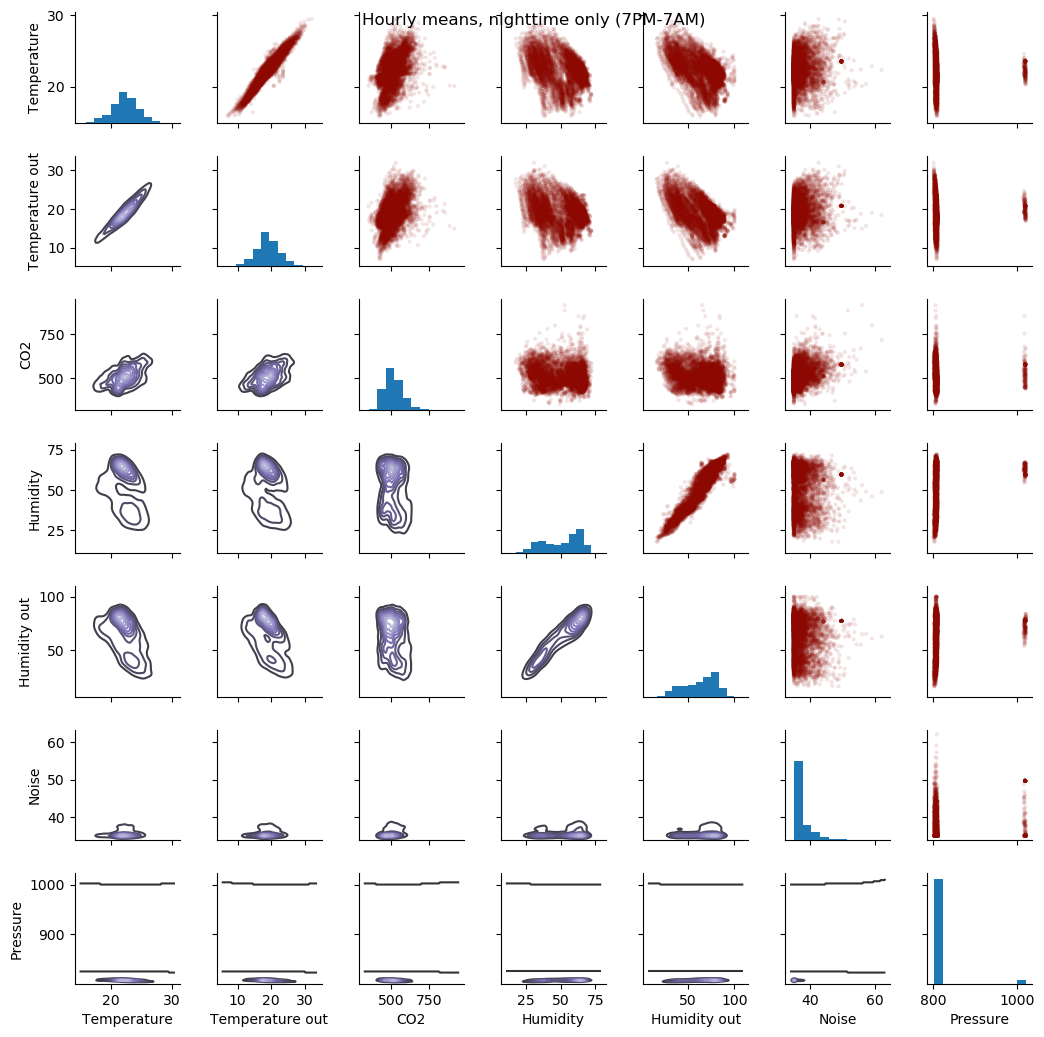
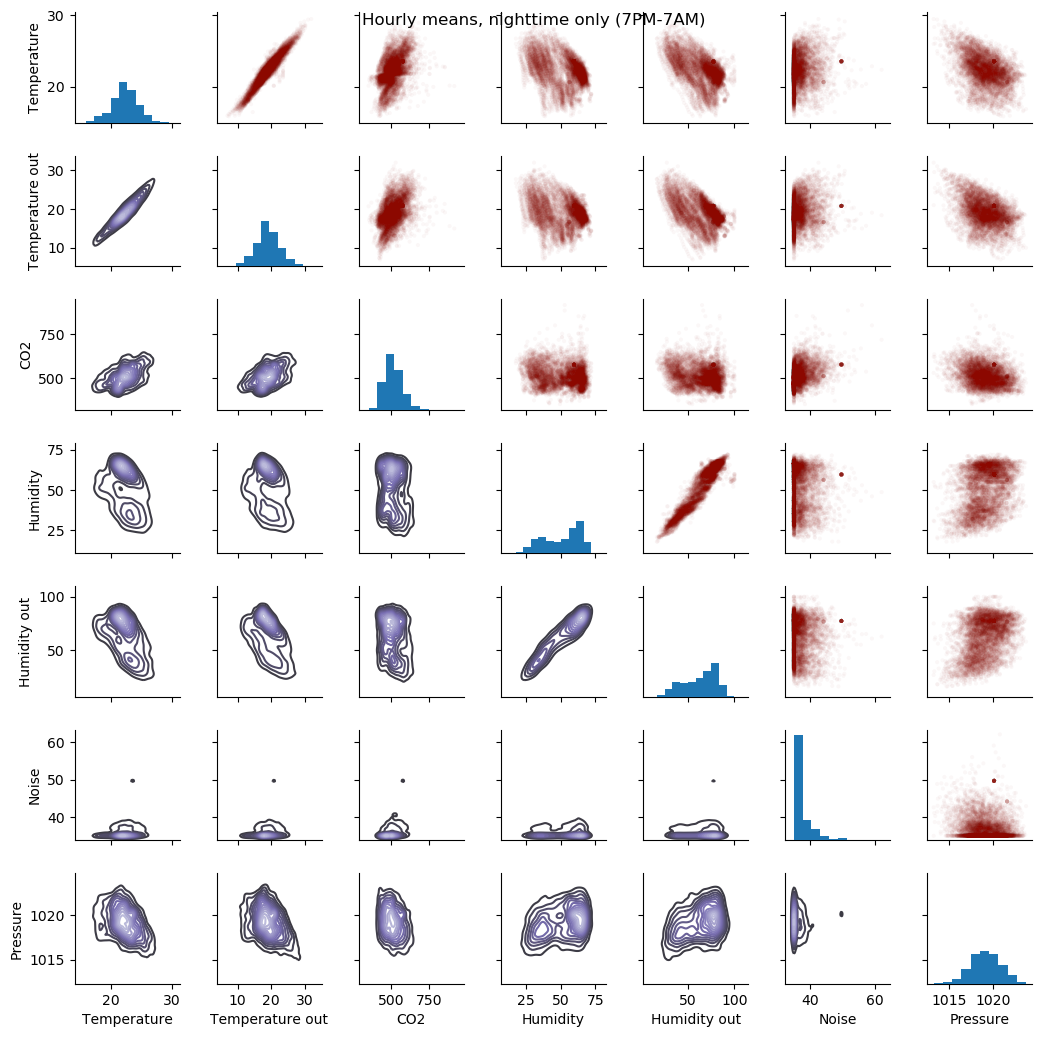
Do the pressure correction for 2-factor graphs
Also, save to external python script for running in terminal, since
it now takes over 2 minutes to generate the plot

diff --git a/weather-2factor.py b/weather-2factor.py
@@ -1,0 +1,57 @@
+import numpy as np
+import pandas as pd
+from matplotlib import pyplot as plt
+import seaborn as sns
+
+sns.set_color_codes('dark')
+
+df_inside = pd.read_csv("netatmo_station.csv", sep=';', index_col=1, parse_dates=True)
+df_outside = pd.read_csv("netatmo_module.csv", sep=';', index_col=1, parse_dates=True)
+
+# Correct the pressures from before 2019-07
+lowmask = df_inside.Pressure < 1000.0
+df_inside.Pressure[lowmask] += 212.0
+
+
+figfile = "weather-pairplot.png"
+
+# Resample by day and by hour
+dfi_max_day = df_inside.resample('1D').max()
+dfi_min_day = df_inside.resample('1D').min()
+dfi_med_hr = df_inside.resample('1H').mean()
+
+dfo_med_hr = df_outside.resample('1H').mean()
+
+# Restrict to afternoons, 12am to 5pm
+# pm_indices = dfi_med_hr.index.indexer_between_time('12:00', '17:00')
+
+# Restrict to daytime: 
+day_indices = dfi_med_hr.index.indexer_between_time('07:00', '19:00')
+
+df = dfi_med_hr.join(dfo_med_hr, rsuffix=" out")
+df = df.iloc[day_indices]
+df = df.fillna(method='bfill')
+
+
+# df = dfi_min_day
+variables = ['Temperature', 'Temperature out', 'CO2', 'Humidity', 'Humidity out', 'Noise', 'Pressure']
+g = sns.PairGrid(df, vars=variables, size=1.5)
+g = g.map_upper(plt.scatter, marker='.', alpha=0.03, facecolor='r', edgecolor='none')
+g = g.map_lower(sns.kdeplot, cmap="Purples_d", n_levels=15)
+g = g.map_diag(plt.hist)
+g.fig.suptitle("Hourly means, daytime only (7AM-7PM)")
+g.savefig(figfile)
+
+
+# Repeat for night time
+night_indices = dfi_med_hr.index.indexer_between_time('19:00', '07:00')
+df = dfi_med_hr.join(dfo_med_hr, rsuffix=" out")
+df = df.iloc[night_indices]
+df = df.fillna(method='bfill')
+variables = ['Temperature', 'Temperature out', 'CO2', 'Humidity', 'Humidity out', 'Noise', 'Pressure']
+g = sns.PairGrid(df, vars=variables, size=1.5)
+g = g.map_upper(plt.scatter, marker='.', alpha=0.03, facecolor='r', edgecolor='none')
+g = g.map_lower(sns.kdeplot, cmap="Purples_d", n_levels=15)
+g = g.map_diag(plt.hist)
+g.fig.suptitle("Hourly means, nighttime only (7PM-7AM)")
+g.savefig(figfile.replace(".png", "-night.png"))
